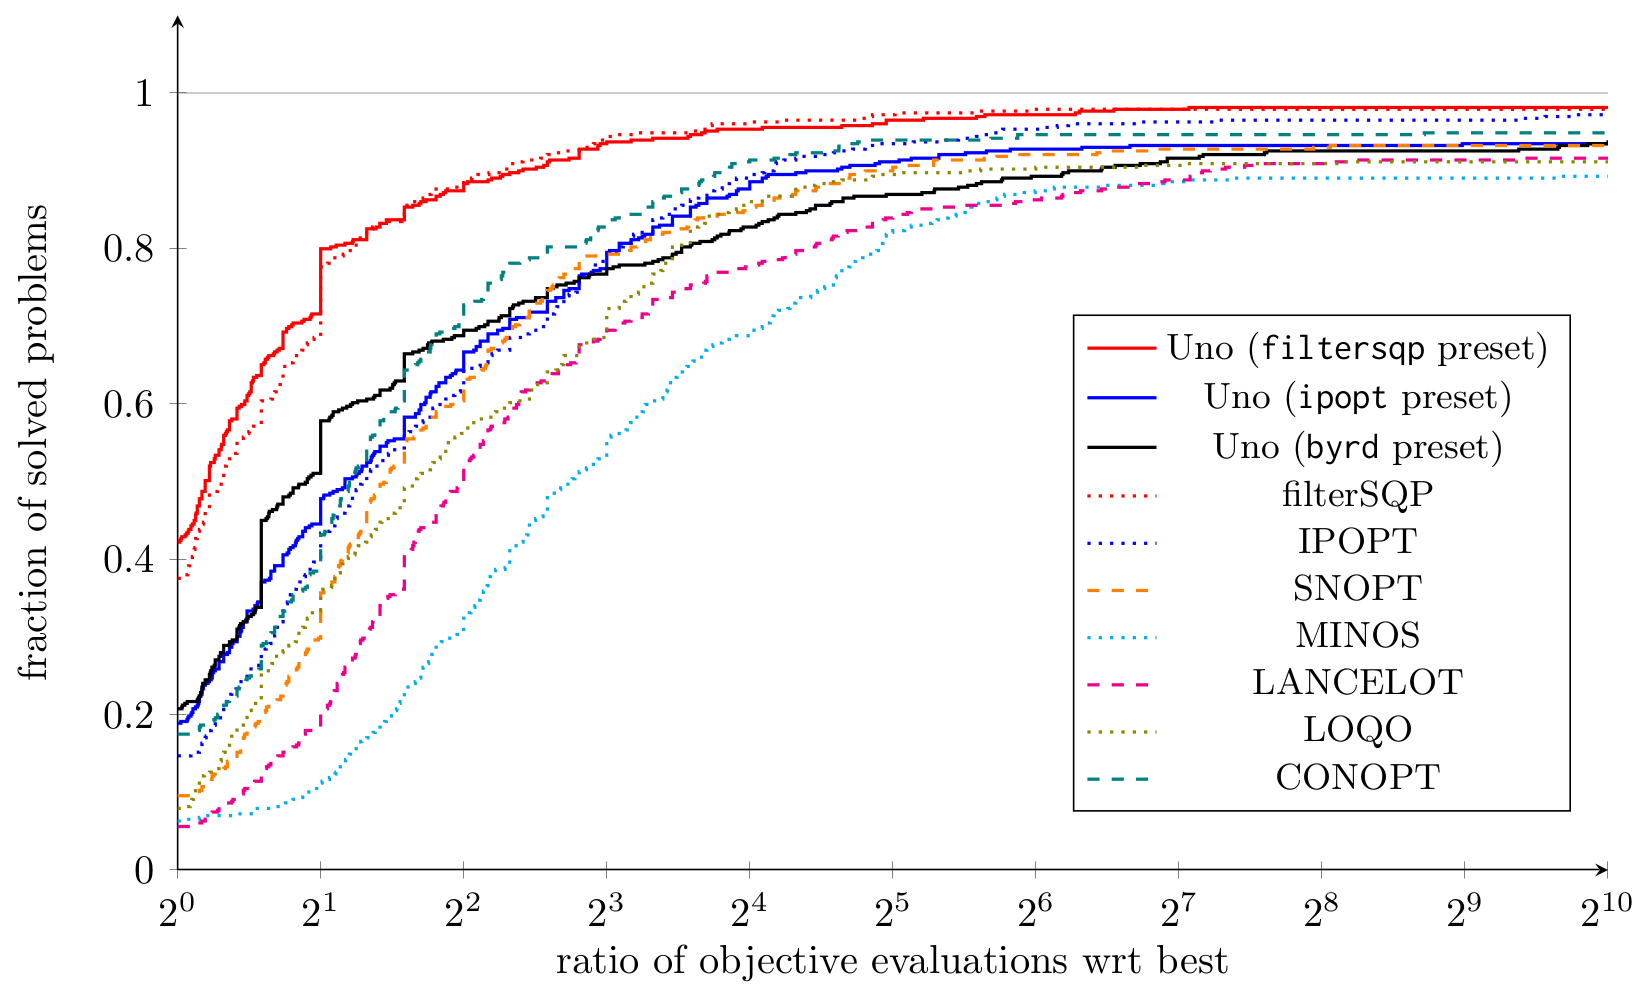
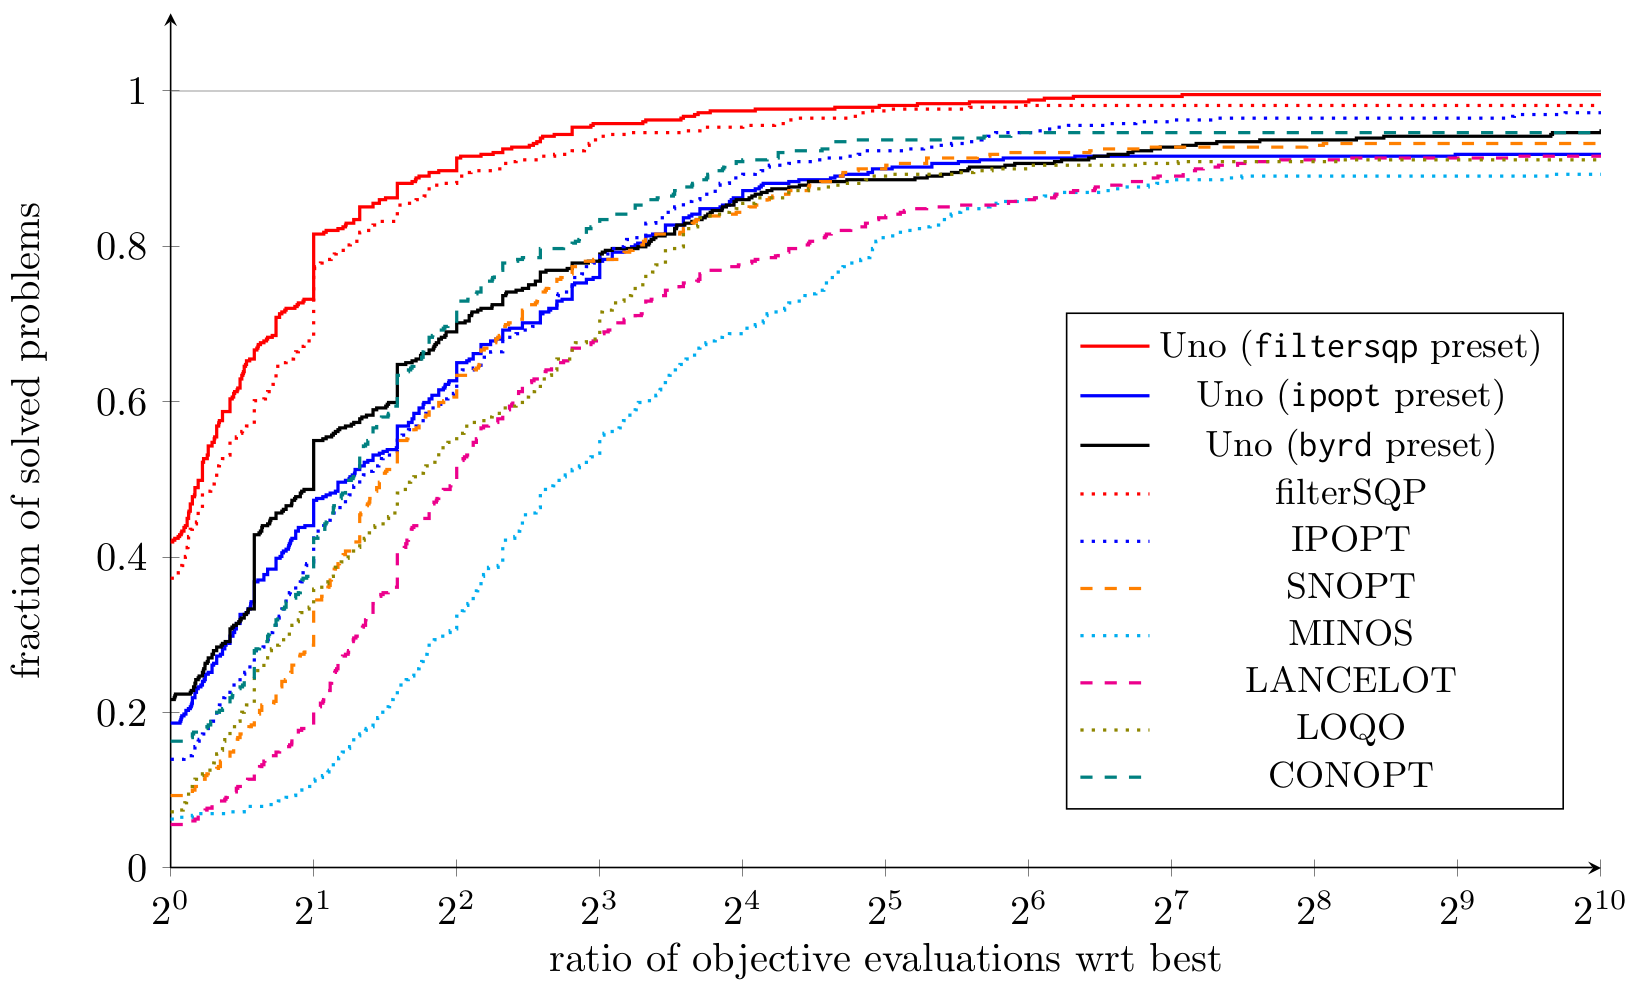
Revert "Merge commit '8e966bfde2305c63d0bc7fcad12adeb2f0114e33' into recovery_casadi_interface, Try to find where the error comes in!!"
This reverts commit 79edd77ffdbe56a383d493b72002aa70bd2d36db, reversing
changes made to f900782636d467fb119171d94b57df80b88c0424.

diff --git a/uno/ingredients/subproblem/interior_point/InfeasibleInteriorPointSubproblem.cpp b/uno/ingredients/subproblem/interior_point/InfeasibleInteriorPointSubproblem.cpp
@@ -35,11 +35,16 @@ InfeasibleInteriorPointSubproblem::InfeasibleInteriorPointSubproblem(size_t max_
             options.get_double("barrier_push_variable_to_interior_k1"),
             options.get_double("barrier_push_variable_to_interior_k2")
       }),
+      bound_relaxation_factors(max_number_variables),
       least_square_multiplier_max_norm(options.get_double("least_square_multiplier_max_norm")),
       damping_factor(options.get_double("barrier_damping_factor")),
       lower_delta_z(max_number_variables), upper_delta_z(max_number_variables),
       statistics_regularization_column_order(options.get_int("statistics_regularization_column_order")),
       statistics_barrier_parameter_column_order(options.get_int("statistics_barrier_parameter_column_order")) {
+   // const double tolerance = options.get_double("tolerance");
+   for (size_t i: Range(max_number_variables)) {
+      this->bound_relaxation_factors[i] = 0.;//tolerance;
+   }
 }
 
 inline void InfeasibleInteriorPointSubproblem::initialize(Statistics& statistics, const NonlinearProblem& problem, Iterate& first_iterate) {
@@ -51,7 +56,8 @@ inline void InfeasibleInteriorPointSubproblem::initialize(Statistics& statistics
 
    // make the initial point strictly feasible wrt the bounds
    for (size_t i: Range(problem.number_variables)) {
-      const Interval bounds = {problem.get_variable_lower_bound(i), problem.get_variable_upper_bound(i)};
+      const Interval bounds = {problem.get_variable_lower_bound(i, this->bound_relaxation_factors[i]),
+            problem.get_variable_upper_bound(i, this->bound_relaxation_factors[i])};
       first_iterate.primals[i] = InfeasibleInteriorPointSubproblem::push_variable_to_interior(first_iterate.primals[i], bounds);
    }
 
@@ -59,7 +65,8 @@ inline void InfeasibleInteriorPointSubproblem::initialize(Statistics& statistics
    if (not problem.model.slacks.empty()) {
       // set the slacks to the constraint values
       problem.model.slacks.for_each([&](size_t j, size_t slack_index) {
-         const Interval bounds = {problem.get_variable_lower_bound(slack_index), problem.get_variable_upper_bound(slack_index)};
+         const Interval bounds = {problem.get_variable_lower_bound(slack_index, this->bound_relaxation_factors[slack_index]),
+               problem.get_variable_upper_bound(slack_index, this->bound_relaxation_factors[slack_index])};
          first_iterate.primals[slack_index] = InfeasibleInteriorPointSubproblem::push_variable_to_interior(first_iterate.evaluations.constraints[j], bounds);
       });
    }
@@ -128,7 +135,7 @@ void InfeasibleInteriorPointSubproblem::evaluate_functions(Statistics& statistic
       double objective_barrier_term = 0.;
       // TODO urgent: use the correct bounds (if TR, all the original variables are bounded)
       if (is_finite(problem.get_variable_lower_bound(i))) { // lower bounded
-         const double inverse_distance = 1. / (current_iterate.primals[i] - problem.get_variable_lower_bound(i));
+         const double inverse_distance = 1. / (current_iterate.primals[i] - problem.get_variable_lower_bound(i, this->bound_relaxation_factors[i]));
          hessian_diagonal_barrier_term += current_iterate.multipliers.lower_bounds[i] * inverse_distance;
          objective_barrier_term += -this->barrier_parameter() * inverse_distance;
          // damping
@@ -137,7 +144,7 @@ void InfeasibleInteriorPointSubproblem::evaluate_functions(Statistics& statistic
          }
       }
       if (is_finite(problem.get_variable_upper_bound(i))) { // upper bounded
-         const double inverse_distance = 1. / (current_iterate.primals[i] - problem.get_variable_upper_bound(i));
+         const double inverse_distance = 1. / (current_iterate.primals[i] - problem.get_variable_upper_bound(i, this->bound_relaxation_factors[i]));
          hessian_diagonal_barrier_term += current_iterate.multipliers.upper_bounds[i] * inverse_distance;
          objective_barrier_term += -this->barrier_parameter() * inverse_distance;
          // damping
@@ -195,10 +202,12 @@ void InfeasibleInteriorPointSubproblem::relax_variable_bounds(const NonlinearPro
    // const double factor = std::pow(machine_epsilon, 0.75);
    for (size_t i: problem.lower_bounded_variables) {
       if (current_iterate.primals[i] - problem.get_variable_lower_bound(i) < machine_epsilon*this->barrier_parameter()) {
+         //this->bound_relaxation_factors[i] += factor;
       }
    }
    for (size_t i: problem.upper_bounded_variables) {
       if (problem.get_variable_upper_bound(i) - current_iterate.primals[i] < machine_epsilon*this->barrier_parameter()) {
+         //this->bound_relaxation_factors[i] += factor;
       }
    }
 }
@@ -277,17 +286,17 @@ void InfeasibleInteriorPointSubproblem::set_auxiliary_measure(const NonlinearPro
    // auxiliary measure: barrier terms
    double barrier_terms = 0.;
    for (size_t i: problem.lower_bounded_variables) {
-      barrier_terms -= std::log(iterate.primals[i] - problem.get_variable_lower_bound(i));
+      barrier_terms -= std::log(iterate.primals[i] - problem.get_variable_lower_bound(i, this->bound_relaxation_factors[i]));
    }
    for (size_t i: problem.upper_bounded_variables) {
-      barrier_terms -= std::log(problem.get_variable_upper_bound(i) - iterate.primals[i]);
+      barrier_terms -= std::log(problem.get_variable_upper_bound(i, this->bound_relaxation_factors[i]) - iterate.primals[i]);
    }
    // damping
    for (size_t i: problem.single_lower_bounded_variables) {
-      barrier_terms += this->damping_factor*(iterate.primals[i] - problem.get_variable_lower_bound(i));
+      barrier_terms += this->damping_factor*(iterate.primals[i] - problem.get_variable_lower_bound(i, this->bound_relaxation_factors[i]));
    }
    for (size_t i: problem.single_upper_bounded_variables) {
-      barrier_terms += this->damping_factor*(problem.get_variable_upper_bound(i) - iterate.primals[i]);
+      barrier_terms += this->damping_factor*(problem.get_variable_upper_bound(i, this->bound_relaxation_factors[i]) - iterate.primals[i]);
    }
    barrier_terms *= this->barrier_parameter();
    assert(not std::isnan(barrier_terms) && "The optimality measure is not an number.");
@@ -305,10 +314,12 @@ double InfeasibleInteriorPointSubproblem::compute_barrier_term_directional_deriv
       const Direction& direction) const {
    double directional_derivative = 0.;
    for (size_t i: problem.lower_bounded_variables) {
-      directional_derivative += -this->barrier_parameter() / (current_iterate.primals[i] - problem.get_variable_lower_bound(i))*direction.primals[i];
+      directional_derivative += -this->barrier_parameter() / (current_iterate.primals[i] - problem.get_variable_lower_bound(i,
+            this->bound_relaxation_factors[i]))*direction.primals[i];
    }
    for (size_t i: problem.upper_bounded_variables) {
-      directional_derivative += -this->barrier_parameter() / (current_iterate.primals[i] - problem.get_variable_upper_bound(i))*direction.primals[i];
+      directional_derivative += -this->barrier_parameter() / (current_iterate.primals[i] - problem.get_variable_upper_bound(i,
+            this->bound_relaxation_factors[i]))*direction.primals[i];
    }
    // damping
    for (size_t i: problem.single_lower_bounded_variables) {
@@ -345,7 +356,8 @@ double InfeasibleInteriorPointSubproblem::primal_fraction_to_boundary(const Nonl
    double primal_length = 1.;
    for (size_t i: problem.lower_bounded_variables) {
       if (this->augmented_system.solution[i] < 0.) {
-         double trial_alpha_xi = -tau * (current_iterate.primals[i] - problem.get_variable_lower_bound(i)) / this->augmented_system.solution[i];
+         double trial_alpha_xi = -tau * (current_iterate.primals[i] - problem.get_variable_lower_bound(i, this->bound_relaxation_factors[i])) /
+               this->augmented_system.solution[i];
          if (0. < trial_alpha_xi) {
             primal_length = std::min(primal_length, trial_alpha_xi);
          }
@@ -353,7 +365,8 @@ double InfeasibleInteriorPointSubproblem::primal_fraction_to_boundary(const Nonl
    }
    for (size_t i: problem.upper_bounded_variables) {
       if (0. < this->augmented_system.solution[i]) {
-         double trial_alpha_xi = -tau * (current_iterate.primals[i] - problem.get_variable_upper_bound(i)) / this->augmented_system.solution[i];
+         double trial_alpha_xi = -tau * (current_iterate.primals[i] - problem.get_variable_upper_bound(i, this->bound_relaxation_factors[i])) /
+               this->augmented_system.solution[i];
          if (0. < trial_alpha_xi) {
             primal_length = std::min(primal_length, trial_alpha_xi);
          }
@@ -447,13 +460,13 @@ void InfeasibleInteriorPointSubproblem::compute_bound_dual_direction(const Nonli
    initialize_vector(this->lower_delta_z, 0.);
    initialize_vector(this->upper_delta_z, 0.);
    for (size_t i: problem.lower_bounded_variables) {
-      const double distance_to_bound = current_iterate.primals[i] - problem.get_variable_lower_bound(i);
+      const double distance_to_bound = current_iterate.primals[i] - problem.get_variable_lower_bound(i, this->bound_relaxation_factors[i]);
       this->lower_delta_z[i] = (this->barrier_parameter() - this->augmented_system.solution[i] * current_iterate.multipliers.lower_bounds[i]) /
                                distance_to_bound - current_iterate.multipliers.lower_bounds[i];
       assert(is_finite(this->lower_delta_z[i]) && "The displacement lower_delta_z is infinite");
    }
    for (size_t i: problem.upper_bounded_variables) {
-      const double distance_to_bound = current_iterate.primals[i] - problem.get_variable_upper_bound(i);
+      const double distance_to_bound = current_iterate.primals[i] - problem.get_variable_upper_bound(i, this->bound_relaxation_factors[i]);
       this->upper_delta_z[i] = (this->barrier_parameter() - this->augmented_system.solution[i] * current_iterate.multipliers.upper_bounds[i]) /
                                distance_to_bound - current_iterate.multipliers.upper_bounds[i];
       assert(is_finite(this->upper_delta_z[i]) && "The displacement upper_delta_z is infinite");
@@ -476,7 +489,8 @@ void InfeasibleInteriorPointSubproblem::postprocess_accepted_iterate(const Nonli
 
    // rescale the bound multipliers (Eq. 16 in Ipopt paper)
    for (size_t i: problem.lower_bounded_variables) {
-      const double coefficient = this->barrier_parameter() / (iterate.primals[i] - problem.get_variable_lower_bound(i));
+      const double coefficient = this->barrier_parameter() / (iterate.primals[i] - problem.get_variable_lower_bound(i,
+            this->bound_relaxation_factors[i]));
       const double lb = coefficient / this->parameters.k_sigma;
       const double ub = coefficient * this->parameters.k_sigma;
       if (lb <= ub) {
@@ -491,7 +505,8 @@ void InfeasibleInteriorPointSubproblem::postprocess_accepted_iterate(const Nonli
       }
    }
    for (size_t i: problem.upper_bounded_variables) {
-      const double coefficient = this->barrier_parameter() / (iterate.primals[i] - problem.get_variable_upper_bound(i));
+      const double coefficient = this->barrier_parameter() / (iterate.primals[i] - problem.get_variable_upper_bound(i,
+            this->bound_relaxation_factors[i]));
       const double lb = coefficient * this->parameters.k_sigma;
       const double ub = coefficient / this->parameters.k_sigma;
       if (lb <= ub) {

diff --git a/uno/Uno.cpp b/uno/Uno.cpp
@@ -113,12 +113,12 @@ TerminationStatus Uno::check_termination(const Model& model, Iterate& current_it
    const bool no_trivial_duals = current_iterate.multipliers.not_all_zero(model.number_variables, this->tolerance);
 
    DEBUG << "Termination criteria:\n";
-   DEBUG << "Stationarity (optimality): " << std::boolalpha << optimality_stationarity << '\n';
-   DEBUG << "Stationarity (feasibility): " << std::boolalpha << feasibility_stationarity << '\n';
-   DEBUG << "Complementarity (optimality): " << std::boolalpha << optimality_complementarity << '\n';
-   DEBUG << "Complementarity (feasibility): " << std::boolalpha << feasibility_complementarity << '\n';
-   DEBUG << "Primal feasibility: " << std::boolalpha << primal_feasibility << '\n';
-   DEBUG << "Not all zero multipliers: " << std::boolalpha << no_trivial_duals << "\n\n";
+   DEBUG << "optimality stationarity: " << std::boolalpha << optimality_stationarity << '\n';
+   DEBUG << "feasibility stationarity: " << std::boolalpha << feasibility_stationarity << '\n';
+   DEBUG << "optimality complementarity: " << std::boolalpha << optimality_complementarity << '\n';
+   DEBUG << "feasibility complementarity: " << std::boolalpha << feasibility_complementarity << '\n';
+   DEBUG << "primal feasibility: " << std::boolalpha << primal_feasibility << '\n';
+   DEBUG << "not all zero multipliers: " << std::boolalpha << no_trivial_duals << "\n\n";
 
    if (optimality_complementarity && primal_feasibility) {
       if (feasibility_stationarity && no_trivial_duals) {

diff --git a/uno/reformulation/NonlinearProblem.hpp b/uno/reformulation/NonlinearProblem.hpp
@@ -55,6 +55,9 @@ public:
    [[nodiscard]] virtual double get_variable_upper_bound(size_t i) const = 0;
    [[nodiscard]] virtual double get_constraint_lower_bound(size_t j) const = 0;
    [[nodiscard]] virtual double get_constraint_upper_bound(size_t j) const = 0;
+   // relaxed bounds
+   [[nodiscard]] double get_variable_lower_bound(size_t i, double relaxation_factor) const;
+   [[nodiscard]] double get_variable_upper_bound(size_t i, double relaxation_factor) const;
 
    [[nodiscard]] virtual size_t get_maximum_number_objective_gradient_nonzeros() const = 0;
    [[nodiscard]] virtual size_t get_maximum_number_jacobian_nonzeros() const = 0;
@@ -73,6 +76,17 @@ inline bool NonlinearProblem::is_constrained() const {
 
 inline size_t NonlinearProblem::get_number_original_variables() const {
    return this->model.number_variables;
+}
+
+// relaxed bounds
+inline double NonlinearProblem::get_variable_lower_bound(size_t i, double relaxation_factor) const {
+   const double lower_bound = this->get_variable_lower_bound(i);
+   return lower_bound - relaxation_factor*std::max(1., std::abs(lower_bound));
+}
+
+inline double NonlinearProblem::get_variable_upper_bound(size_t i, double relaxation_factor) const {
+   const double upper_bound = this->get_variable_upper_bound(i);
+   return upper_bound + relaxation_factor * std::max(1., std::abs(upper_bound));
 }
 
 inline double NonlinearProblem::compute_optimality_stationarity_error(const Iterate& iterate, Norm residual_norm) {

diff --git a/uno/ingredients/subproblem/interior_point/BarrierParameterUpdateStrategy.cpp b/uno/ingredients/subproblem/interior_point/BarrierParameterUpdateStrategy.cpp
@@ -63,10 +63,12 @@ double BarrierParameterUpdateStrategy::compute_shifted_complementarity_error(con
    const auto ith_component = [&](size_t i) {
       double result = 0.;
       if (0. < iterate.multipliers.lower_bounds[i]) { // lower bound
-         result = std::max(result, std::abs(iterate.multipliers.lower_bounds[i] * (iterate.primals[i] - problem.get_variable_lower_bound(i)) - shift_value));
+         result = std::max(result, std::abs(iterate.multipliers.lower_bounds[i] * (iterate.primals[i] - problem.get_variable_lower_bound(i,
+               this->tolerance)) - shift_value));
       }
       if (iterate.multipliers.upper_bounds[i] < 0.) { // upper bound
-         result = std::max(result, std::abs(iterate.multipliers.upper_bounds[i] * (iterate.primals[i] - problem.get_variable_upper_bound(i)) - shift_value));
+         result = std::max(result, std::abs(iterate.multipliers.upper_bounds[i] * (iterate.primals[i] - problem.get_variable_upper_bound(i,
+               this->tolerance)) - shift_value));
       }
       return result;
    };

diff --git a/uno/optimization/ModelFactory.cpp b/uno/optimization/ModelFactory.cpp
@@ -6,7 +6,6 @@
 #include "ModelFactory.hpp"
 #include "EqualityConstrainedModel.hpp"
 #include "ScaledModel.hpp"
-#include "BoundRelaxedModel.hpp"
 #include "interfaces/AMPL/AMPLModel.hpp"
 #include "preprocessing/Scaling.hpp"
 
@@ -15,11 +14,8 @@ std::unique_ptr<Model> ModelFactory::reformulate(const AMPLModel& ampl_model, It
 
    // if an equality-constrained problem is required (e.g. barrier or AL), reformulate the model
    if (options.get_string("subproblem") == "barrier") {
-      // transfer ownership of the pointers
-      // introduce slacks to obtain equality constraints
+      // transfer ownership of the pointer
       model = std::make_unique<EqualityConstrainedModel>(std::move(model));
-      // slightly relax the bound constraints
-      model = std::make_unique<BoundRelaxedModel>(std::move(model), options);
       first_iterate.set_number_variables(model->number_variables);
    }
    return model;

diff --git a/uno/ingredients/subproblem/HessianModel.cpp b/uno/ingredients/subproblem/HessianModel.cpp
@@ -24,8 +24,7 @@ void ExactHessian::evaluate(Statistics& /*statistics*/, const NonlinearProblem& 
 
 // Convexified Hessian
 ConvexifiedHessian::ConvexifiedHessian(size_t dimension, size_t maximum_number_nonzeros, const Options& options):
-      HessianModel(dimension, maximum_number_nonzeros, options.get_string("sparse_format"), /* use_regularization = */true),
-      // inertia-based convexification needs a linear solver
+      HessianModel(dimension, maximum_number_nonzeros, options.get_string("sparse_format"), true), // regularized
       linear_solver(SymmetricIndefiniteLinearSolverFactory::create(options.get_string("linear_solver"), dimension, maximum_number_nonzeros)),
       regularization_initial_value(options.get_double("regularization_initial_value")),
       regularization_increase_factor(options.get_double("regularization_increase_factor")) {

diff --git a/uno/ingredients/constraint_relaxation_strategy/FeasibilityRestoration.cpp b/uno/ingredients/constraint_relaxation_strategy/FeasibilityRestoration.cpp
@@ -21,9 +21,6 @@ FeasibilityRestoration::FeasibilityRestoration(const Model& model, const Options
       l1_constraint_violation_coefficient(options.get_double("l1_constraint_violation_coefficient")),
       tolerance(options.get_double("tolerance")),
       statistics_restoration_phase_column_order(options.get_int("statistics_restoration_phase_column_order")) {
-   // for the moment, disable feasibility restoration + l1 merit
-   assert(options.get_string("strategy") != "l1-merit" &&
-      "You cannot use an l1 merit function yet, since the objective multiplier is not properly steered.");
 }
 
 void FeasibilityRestoration::initialize(Statistics& statistics, Iterate& first_iterate) {

diff --git a/uno/interfaces/AMPL/AMPLModel.cpp b/uno/interfaces/AMPL/AMPLModel.cpp
@@ -247,8 +247,7 @@ void AMPLModel::evaluate_lagrangian_hessian(const std::vector<double>& x, double
    const int* ampl_column_start = this->asl->i.sputinfo_->hcolstarts;
    const int* ampl_row_index = this->asl->i.sputinfo_->hrownos;
    // check that the column pointers are sorted in increasing order
-   assert(in_increasing_order(ampl_column_start, this->number_variables + 1) &&
-      "AMPLModel::evaluate_lagrangian_hessian: column starts are not ordered");
+   assert(in_increasing_order(ampl_column_start, this->number_variables + 1) && "evaluate_lagrangian_hessian: column starts are not ordered");
 
    // copy the nonzeros in the Hessian
    hessian.reset();

diff --git a/uno/ingredients/subproblem/interior_point/InfeasibleInteriorPointSubproblem.hpp b/uno/ingredients/subproblem/interior_point/InfeasibleInteriorPointSubproblem.hpp
@@ -50,6 +50,7 @@ protected:
    double previous_barrier_parameter;
    const double default_multiplier;
    const InteriorPointParameters parameters;
+   std::vector<double> bound_relaxation_factors;
    const double least_square_multiplier_max_norm;
    const double damping_factor; // (Section 3.7 in IPOPT paper)
 

diff --git a/README.md b/README.md
@@ -35,7 +35,7 @@ Uno 1.0 implements the following strategies:
 For more details, check out my [presentation at the ICCOPT 2022 conference](https://www.researchgate.net/publication/362254109).
 This is joint work with [Sven Leyffer](https://wiki.mcs.anl.gov/leyffer/index.php/Sven_Leyffer) (Argonne National Laboratory).
 
-### Latest results (Mar 15, 2023)
+### Latest results (Jan 25, 2023)
 
 Some of Uno combinations (called presets, see below) have been tested against state-of-the-art solvers on 429 small problems of the [CUTEst benchmark](https://arnold-neumaier.at/glopt/coconut/Benchmark/Library2_new_v1.html).
 The figure below is a performance profile; it shows how many problems are solved for a given budget of function evaluations (1 time, 2 times, 4 times, ..., $2^x$ times the number of objective evaluations of the best solver for each instance).
